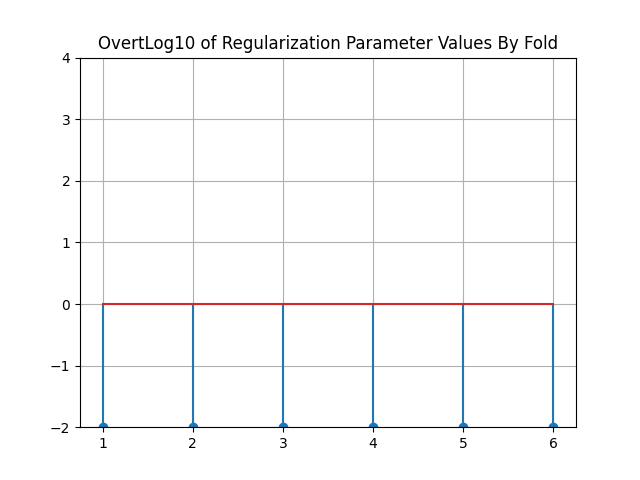
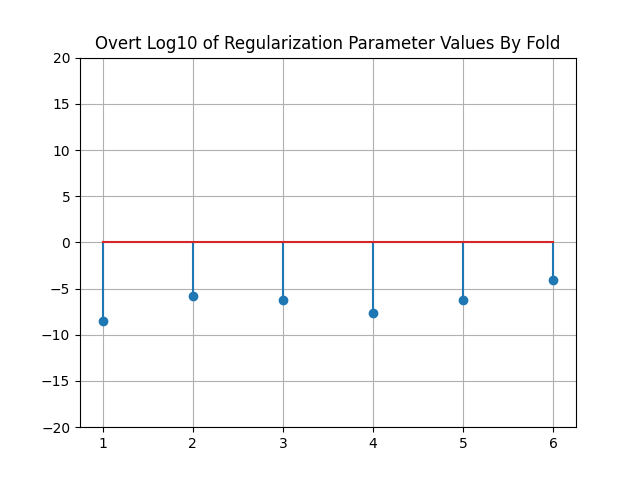
fixed alpha vals

diff --git a/mp2.py b/mp2.py
@@ -134,7 +134,7 @@ def crossVal(X, y):
         clf_curr_fold = None
         current_alpha_val = None
         for lay_2_train_idx, lay_2_test_idx in layer_2.split(curr_train_X):
-            alphas = np.logspace(-2, 4, num=13 * 3 + 1, base=10)
+            alphas = np.logspace(-15, 2, num=13 * 3 + 1, base=10)
             scores = []
             for alpha in alphas:
                 clf = make_pipeline(LinearSVC(dual=False))
@@ -216,7 +216,7 @@ def trainSVM(data0, data1, data0tes, data1tes):
 
     alphas = np.log10(alphas)
     plt.stem(x, alphas)
-    plt.ylim(-2, 4)
+    plt.ylim(-20, 20)
     plt.grid()
     plt.title(DATA_TYPE + " Log10 of Regularization Parameter Values By Fold")
     plt.savefig("./Results/" + DATA_TYPE + "_alpha_values.png")
